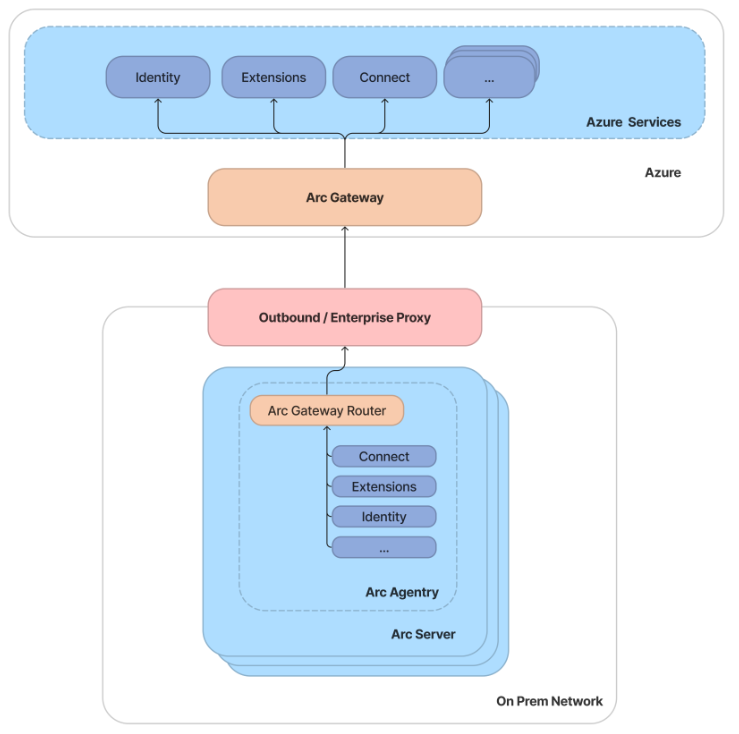
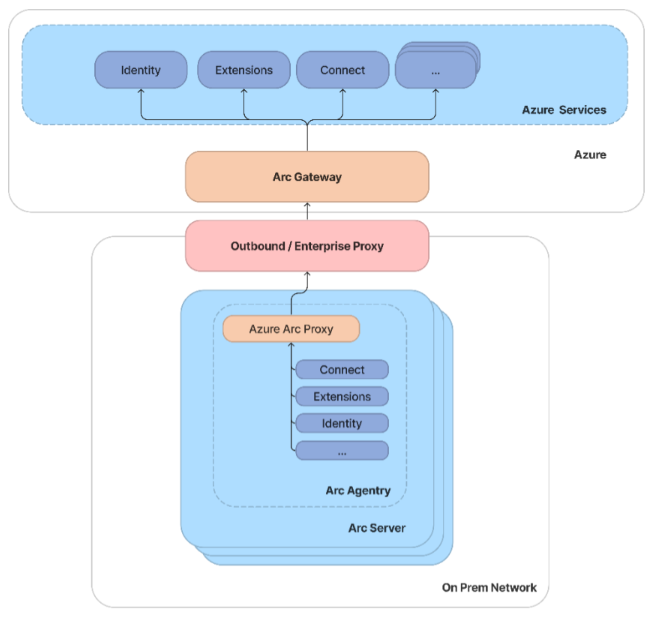
Latest version edits

diff --git a/articles/azure-arc/servers/arc-gateway.md b/articles/azure-arc/servers/arc-gateway.md
@@ -1,7 +1,7 @@
 ---
 title: How to simplify network configuration requirements through Azure Arc gateway (Limited preview)
 description: Learn how to simplify network configuration requirements through Azure Arc gateway (Limited preview).
-ms.date: 06/14/2024
+ms.date: 06/20/2024
 ms.topic: how-to
 ---
 
@@ -42,9 +42,9 @@ Azure Arc gateway consists of two main components:
 
 **The Arc gateway resource:** An Azure resource that serves as a common front-end for Azure traffic. This gateway resource is served on a specific domain. Once the Arc gateway resource is created, the domain is returned to you in the success response.
 
-**The gateway router:** A new component added to Arc agentry. This component runs as a service called "Azure Arc Proxy" and acts as a forward proxy used by the Azure Arc agents and extensions. No configuration is required on your part for the gateway router. This router is part of Arc core agentry and runs within the context of an Arc-enabled resource.
+**The Arc Proxy:** A new component added to Arc agentry. This component runs as a service called "Azure Arc Proxy" and acts as a forward proxy used by the Azure Arc agents and extensions. No configuration is required on your part for the gateway router. This router is part of Arc core agentry and runs within the context of an Arc-enabled resource.
 
-When the gateway is in place, traffic flows via the following hops: **Arc agentry → gateway router → Enterprise proxy → Arc gateway  → Target service**
+When the gateway is in place, traffic flows via the following hops: **Arc agentry → Arc Proxy → Enterprise proxy → Arc gateway  → Target service**
 
 :::image type="content" source="media/arc-gateway/arc-gateway-overview.png" alt-text="Diagram showing the route of traffic flow for Azure Arc gateway.":::
 
@@ -236,9 +236,9 @@ For **Microsoft Defender for Endpoint**, run the following command:
 
 `mdatp config proxy set --value http://127.0.0.1:403` 
 
-## Delete an Arc gateway resource
+## Cleanup instructions
 
-To delete an Arc gateway resource, detach the resource from the applicable server(s); the resource can then be deleted safely:
+To clean up your gateway, detach the gateway resource from the applicable server(s); the resource can then be deleted safely:
 
 1. Set the connection type of the Azure Arc-enabled server to "direct" instead of "gateway":  
 
